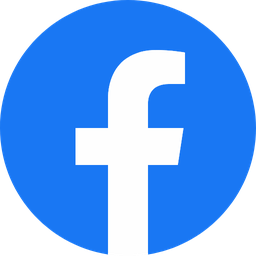
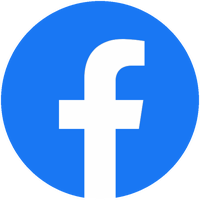
Íconos Instagram y Facebook oficiales del usuario (tira ICONOS REDES)

diff --git a/web/assets/iconos/README.md b/web/assets/iconos/README.md
@@ -1,13 +1,15 @@
-# Íconos del proyecto (PNG 256×256, fondo transparente)
+# Íconos del proyecto (PNG con fondo transparente (200–256 px))
 
 Se usan por defecto en las plantillas Aprobado y Conoce; si el usuario carga sus propios íconos desde Drive (nombres con whatsapp, instagram, facebook, canal, ubicacion), estos tienen prioridad.
 
 | Archivo | Origen | Notas |
 |---|---|---|
 | icono_whatsapp.png | Wikimedia Commons `WhatsApp.svg` (dominio público, verificado) | Se quitó la sombra difusa del SVG; marca registrada de Meta |
-| icono_instagram.png | Wikimedia Commons `Instagram_logo_2022.svg` | Licencia NO VERIFICADA desde esta sesión; marca registrada de Meta |
-| icono_facebook.png | Wikimedia Commons `Facebook_f_logo_(2019).svg` | Licencia NO VERIFICADA desde esta sesión; marca registrada de Meta |
+| icono_instagram.png | Recorte con máscara (cuadrado redondeado) de la tira «ICONOS REDES.png» del usuario (200×200) | Original del usuario; reemplaza el de Wikimedia (licencia no verificada); marca registrada de Meta |
+| icono_facebook.png | Recorte con máscara (círculo) de la tira «ICONOS REDES.png» del usuario (200×200) | Original del usuario; reemplaza el de Wikimedia (licencia no verificada); marca registrada de Meta |
 | icono_ubicacion.png | Material Design Icons `location_on` (Apache-2.0), color #E1141E | Pin genérico, no es marca |
 | icono_canal_whatsapp.png | Recorte circular de la insignia central del QR del Canal autorizado por el usuario | Original del usuario |
 
 Descarga autorizada expresamente por el usuario (2026-10-19). Preferir siempre los originales de Drive (`04_LOGOS_OFICIALES/ICONOS_REDES_Y_QR`) cuando estén disponibles.
+
+Nota 2026-10-19: los íconos sueltos oficiales (E:\ANIVERSARIO OVIEDO 2026\...\ICONOS_REDES) miden solo 73-81 px; usarlos bajaría la calidad, por eso Instagram y Facebook salen de la tira de 200 px. WhatsApp (dominio público verificado), ubicación (Apache-2.0) y Canal (original del usuario) no cambian; el WhatsApp de la tira trae un halo y el suelto es de 75 px.

diff --git a/docs/ESTADO_SESION.md b/docs/ESTADO_SESION.md
@@ -119,3 +119,4 @@ Bloqueo de exportación sin Montserrat, comprobación de dimensiones PNG, textos
 - Logo Oviedo Expréss: NO existe suelto en mayor tamaño en ese material; solo dentro de los banners «Atendemos aquí» (695x346 y 170x517). El máximo utilizable sigue siendo OVIEDO_EXPRESS_ORIGINAL.png (176x73). Pedir vectorial/PNG grande al diseñador.
 - Recomendación pendiente de OK: mover las 4 carpetas a una subcarpeta `material_fuente/` (ignorada por git, con README) y documentar en LEEME_RUTAS; no se hizo sin orden del dueño.
 - Orden (2026-10-19, a pedido del usuario): las 4 carpetas de material se movieron a `material_fuente/` (ignorada por git; 317 archivos verificados antes/después; MANIFIESTO.md con rutas originales). Entrada añadida en LEEME_RUTAS.md (respaldo previo en _respaldos\oviedo-studio-flyers_2026-10-19\).
+- Íconos (2026-10-19): Instagram y Facebook por defecto ahora salen de la tira «ICONOS REDES.png» del usuario (200x200, máscara exacta), sin la licencia dudosa de Wikimedia. Los íconos sueltos oficiales (73-81 px) NO se usaron: bajaban la calidad. WhatsApp, ubicación y Canal sin cambios. Verificado: exportación Aprobado Feed y Conoce Historia sin errores y con bordes limpios. NO VERIFICADO: licencia/uso del WhatsApp del repo frente al original del usuario (el original tiene halo).
